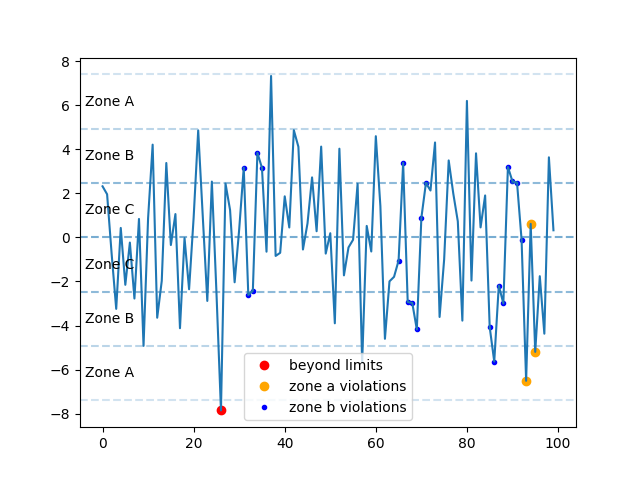
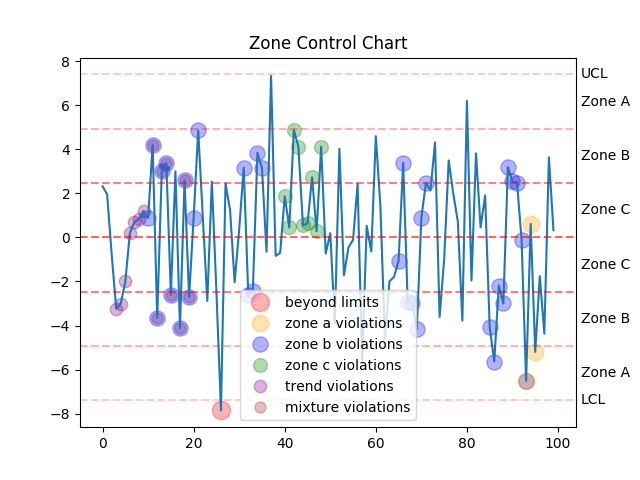
Better example for Cpk.

diff --git a/examples/cpk_plot.py b/examples/cpk_plot.py
@@ -1,16 +1,8 @@
 import logging
-from manufacturing.analysis import calc_cp, calc_cpk
-from manufacturing.visual import show_cpk
+from manufacturing import import_excel, show_cpk
 
 logging.basicConfig(level=logging.INFO)
 
-data_set = [
-    2.22733878, -0.59642503, 0.38748058, 0.04096949, -0.59172204,
-    0.54991948, 0.83157694, 0.34475987, 0.32077209, 0.22190573,
-    0.08900655, 2.18235828, 1.27339963, 1.78268688, -0.46135011,
-    -0.10153148, 1.15755759, 0.3260459, 0.55099812, 0.68617156,
-    -0.55970142, -0.06345785, 0.26442253, -0.0145402, 1.85779703,
-    1.02047743, -1.86050513, 1.22360586, -1.21395692, 0.05553756
-]
+data = import_excel('example_data_with_faults.xlsx', columnname='value (lsl=-7.4 usl=7.4)', skiprows=3)
 
-show_cpk(data_set, upper_spec_limit=2.5, lower_spec_limit=-2.5)
+show_cpk(**data)

diff --git a/readme.md b/readme.md
@@ -65,7 +65,8 @@ making consistent product within the specified limits.
 
  * ~~Cpk analysis~~
  * ~~Cpk plots/histograms~~
- * In-control/out-of-control analysis
+ * Ppk analysis/plot/histogram
+ * In-control/out-of-control analysis (do Ppk and Cpk converge to approximately the same value)
  * Control chart plot (see [Control Chart Rules](https://www.spcforexcel.com/knowledge/control-chart-basics/control-chart-rules-interpretation))
    * ~~Beyond limits violations highlighted~~ (one or more points beyond the control limits)
    * ~~Zone A violations highlighted~~ (2 out of 3 consecutive points in zone A or beyond)
@@ -86,6 +87,12 @@ making consistent product within the specified limits.
 
 # Gallery
 
-# ![Cpk example](images/example1.png)
+Currently, no distinction is made between Ppk and Cpk, so the entire chart shows the Cpk.
+
+# ![Cpk example](images/cpk-chart-example.png)
+
+Some of the data for the zone control chard was manipulated in order to display the results.
+Note that, if a phenomenon is not present within the data, then it will not be plotted at
+all.
 
 # ![Cpk example](images/control-chart-example.png)
